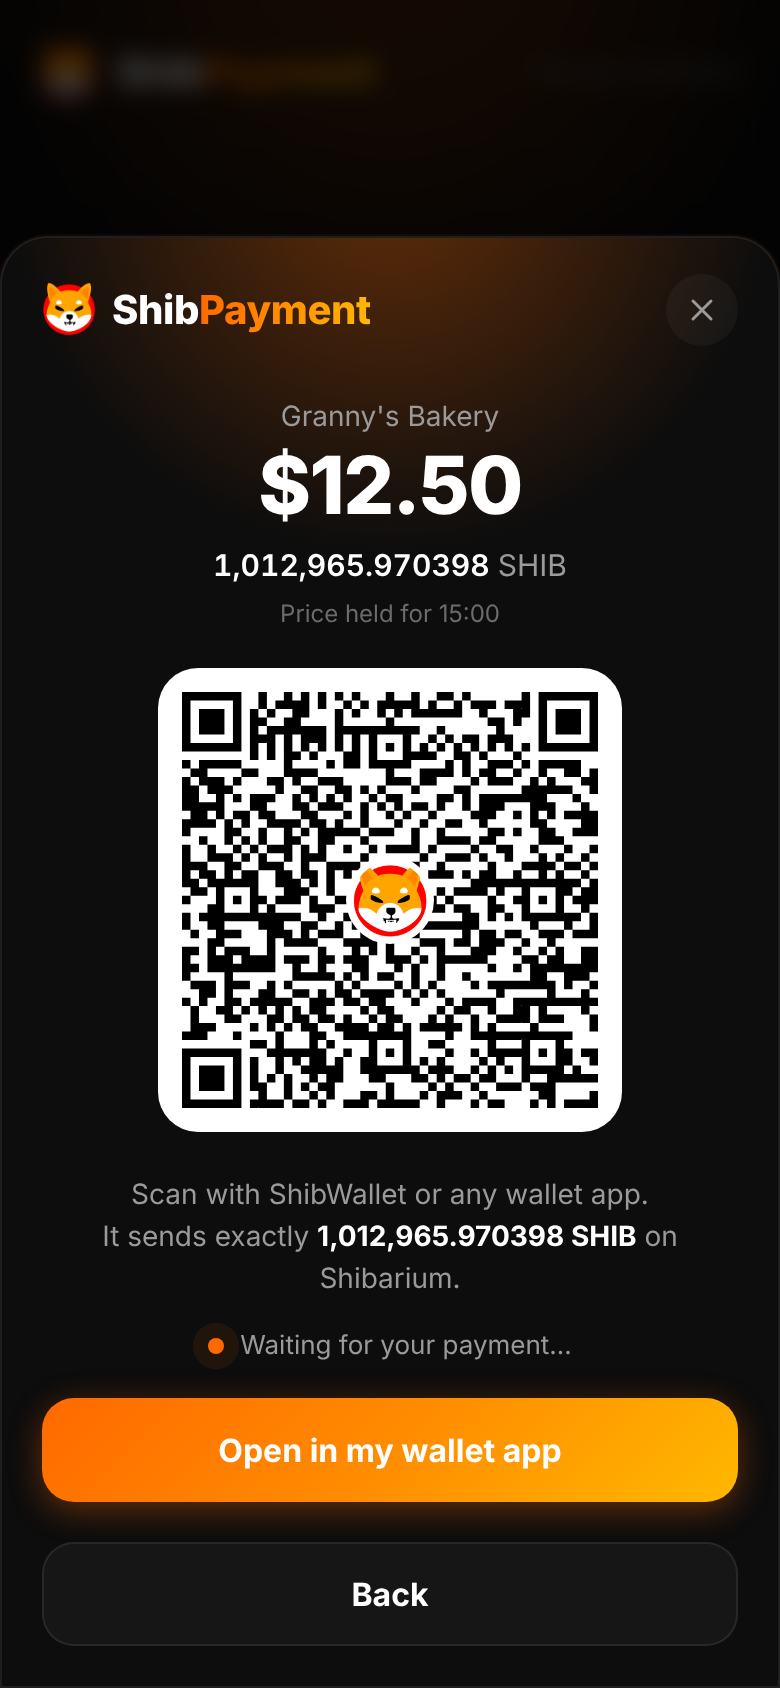
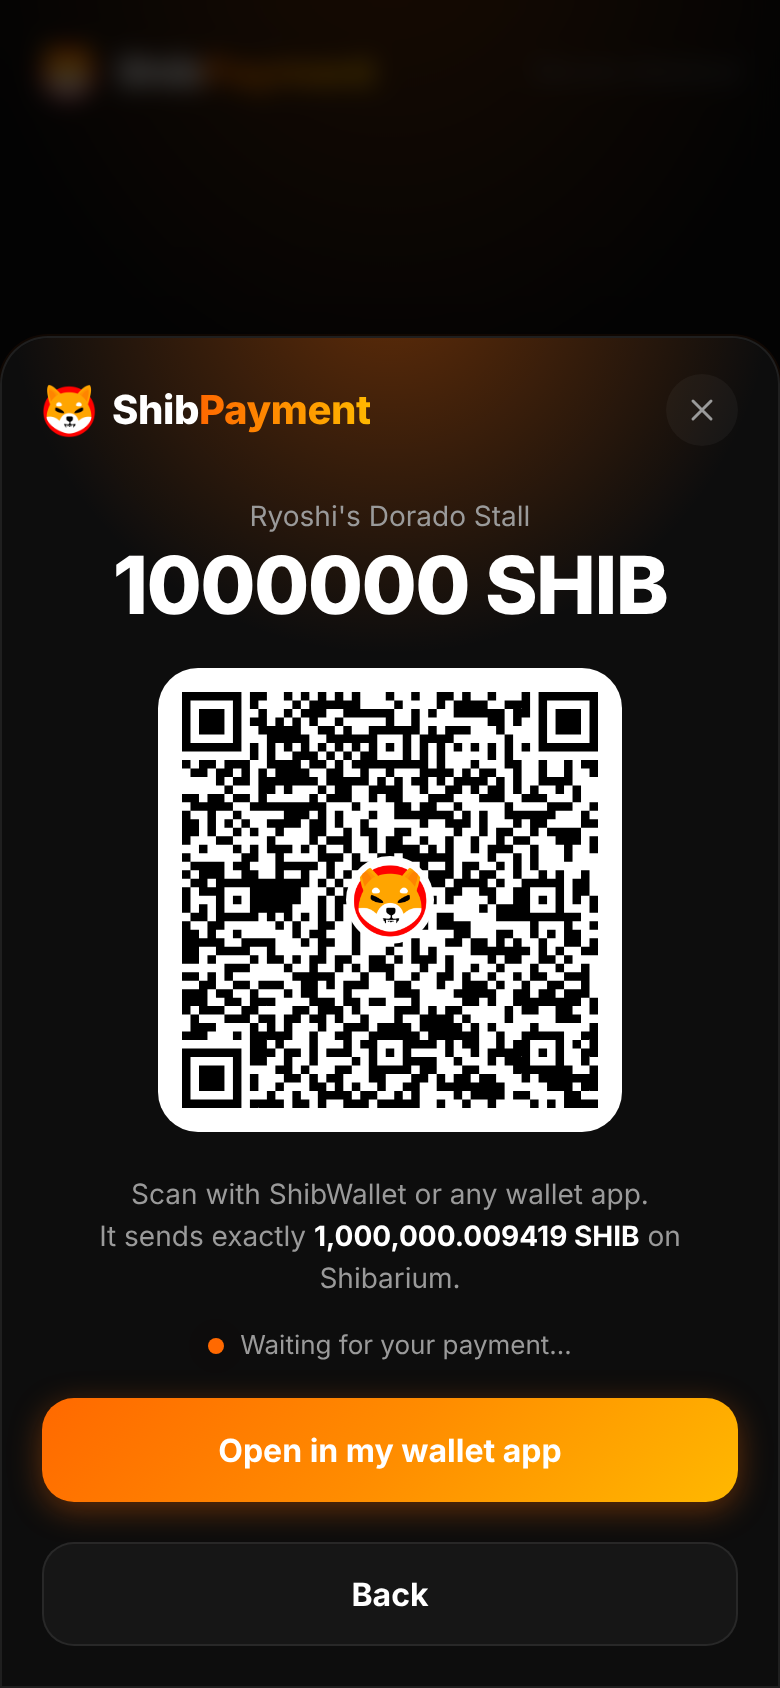
Demo shop: Ryoshi's dorado stall in Durbs instead of Granny's Bakery
A nod to Ryoshi's line about a fish market vendor in Durbs accepting
SHI for his dorado (Ryoshi means fisherman). Price shown in ZAR.

Claude-Session: https://claude.ai/code/session_01W3QrRtqiMxbZvZxcTsrqAA

diff --git a/apps/web/index.html b/apps/web/index.html
@@ -13,7 +13,11 @@
   <style>
     .hero { padding: 64px 0 40px; display: grid; grid-template-columns: 1.1fr .9fr; gap: 48px; align-items: center; }
     .hero .actions { display: flex; gap: 12px; margin-top: 28px; flex-wrap: wrap; }
+    .mockwrap { margin: 0; }
     .mock { position: relative; padding: 28px; }
+    .quote { margin-top: 14px; text-align: center; font-size: 14px; font-style: italic; color: var(--muted); }
+    .quote span { display: block; margin-top: 4px; font-style: normal; font-size: 12px; color: var(--faint); }
+    .quote span::before { content: "— "; }
     .mock .price { font-size: 44px; font-weight: 800; letter-spacing: -.02em; text-align: center; }
     .mock .sub { text-align: center; color: var(--muted); }
     .mock .tokens { display: grid; grid-template-columns: repeat(4, 1fr); gap: 8px; margin: 20px 0; }
@@ -47,19 +51,22 @@
           <a class="btn ghost" href="#developers">Add it to a website</a>
         </div>
       </div>
+      <figure class="mockwrap">
       <div class="card mock" aria-hidden="true">
-        <div class="sub">Granny's Bakery</div>
-        <div class="price">$12.50</div>
-        <div class="sub"><b style="color:#fff">1,012,965.42</b> SHIB</div>
-        <div style="text-align:center;margin-top:12px"><span class="pill">Granny's Bakery burns 2% of every sale</span></div>
+        <div class="sub">Ryoshi's Dorado Stall</div>
+        <div class="price">R330.00</div>
+        <div class="sub"><b style="color:#fff">1,452,380.95</b> SHIB</div>
+        <div style="text-align:center;margin-top:12px"><span class="pill">Ryoshi's Dorado Stall burns 2% of every sale</span></div>
         <div class="tokens">
           <div class="tok on"><span class="tlogo"><img src="/shib-logo.png" alt="" /></span>SHIB</div>
           <div class="tok"><span class="tlogo"><span>B</span><img src="https://assets.coingecko.com/coins/images/16916/large/bone_icon.png" alt="" onerror="this.remove()" /></span>BONE</div>
           <div class="tok"><span class="tlogo"><span>L</span><img src="https://assets.coingecko.com/coins/images/15802/large/Leash.png" alt="" onerror="this.remove()" /></span>LEASH</div>
           <div class="tok"><span class="tlogo"><span>T</span><img src="https://assets.coingecko.com/coins/images/53501/large/Treat_blk_200x200.png" alt="" onerror="this.remove()" style="transform:translateY(10%) scale(1.85);transform-origin:50% 40%" /></span>TREAT</div>
         </div>
-        <div class="btn" style="width:100%">Pay with ShibWallet</div>
+        <div class="btn" style="width:100%">Pay with ShibWallet on Shibarium</div>
       </div>
+      <figcaption class="quote">“Imagine a fish market vendor in Durbs accepting 330 SHI for his dorado.”<span>Ryoshi</span></figcaption>
+      </figure>
     </section>
 
     <section class="features">
@@ -89,9 +96,9 @@
 
 &lt;shib-pay
   to="0xYourWalletAddress"
-  amount="12.50" currency="USD"
+  amount="330" currency="ZAR"
   burn="2" order="A-1017"
-  label="Granny's Bakery"&gt;
+  label="Ryoshi's Dorado Stall"&gt;
 &lt;/shib-pay&gt;
 
 &lt;script&gt;

diff --git a/packages/button/src/shib-pay.ts b/packages/button/src/shib-pay.ts
@@ -53,7 +53,7 @@ function friendlyError(err: unknown, token: string, chain: string): string {
 }
 
 /**
- * <shib-pay to="0x..." amount="12.50" currency="USD" burn="2" order="A-17" label="Granny's Shop"></shib-pay>
+ * <shib-pay to="0x..." amount="12.50" currency="USD" burn="2" order="A-17" label="Ryoshi's Dorado Stall"></shib-pay>
  *
  * Fires `shibpay:paid` (bubbles, composed) with { txHash, chainId, token, amount, burnMode, burned, pledged, payer, order }.
  * On Ethereum the burn happens in the payment; elsewhere the shop is paid in full and `pledged` is theirs to burn.

diff --git a/apps/web/setup.html b/apps/web/setup.html
@@ -36,7 +36,7 @@
     <div class="grid">
       <form class="card" id="form" novalidate>
         <label class="field"><span>Shop name</span>
-          <input name="label" maxlength="60" placeholder="Granny's Bakery" autocomplete="organization" />
+          <input name="label" maxlength="60" placeholder="Ryoshi's Dorado Stall" autocomplete="organization" />
         </label>
 
         <label class="field"><span>Your receiving wallet</span>

diff --git a/README.md b/README.md
@@ -42,9 +42,9 @@ If you set a burn, open `/burn.html` once a week or month: enter what you took i
 
 <shib-pay
   to="0xYourWalletAddress"
-  amount="12.50" currency="USD"
+  amount="330" currency="ZAR"
   burn="2" order="A-1017"
-  label="Granny's Bakery"
+  label="Ryoshi's Dorado Stall"
   return-url="https://yourshop.com/thank-you">
 </shib-pay>
 ```
